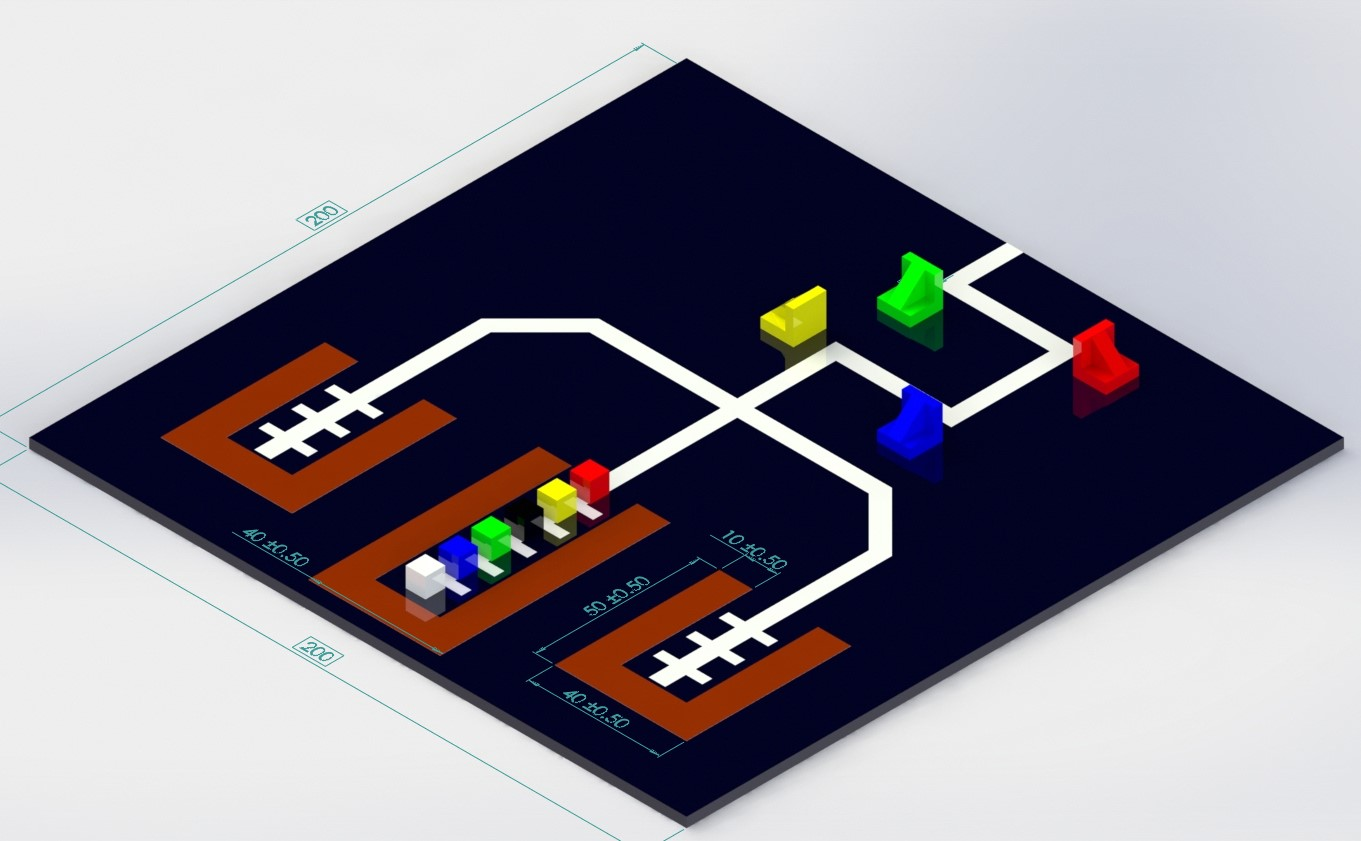
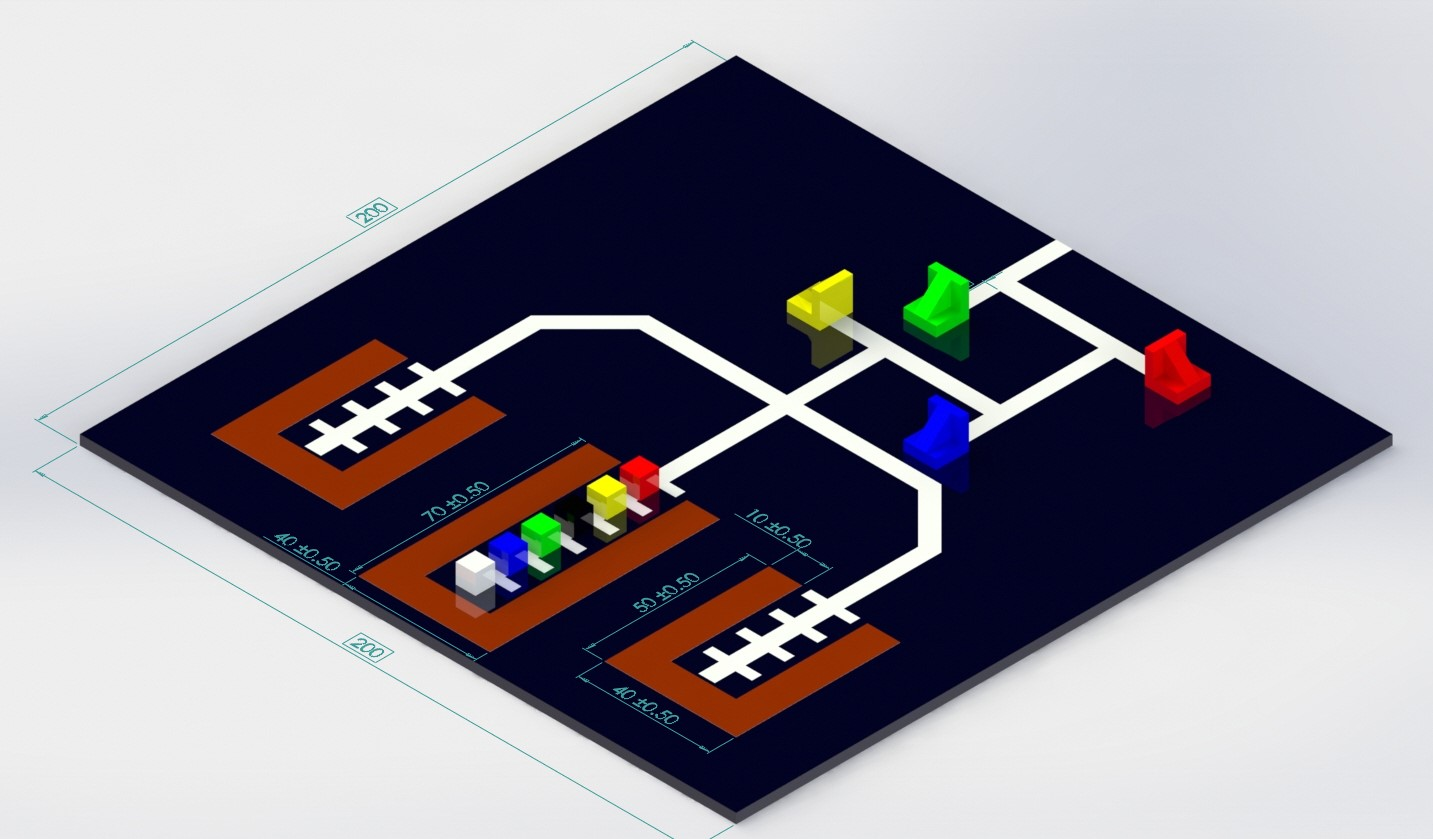
changed arena

diff --git a/_events/stax.md b/_events/stax.md
@@ -61,7 +61,7 @@ To build a robot which can **rearrange** blocks of different colours from a stac
 
 * The outer dimensions of the arena will be **200 cm x 200 cm**.
 
-* The main stack and side stacks will be a rectangles of inner dimensions **80 cm x 20 cm** and **40 cm x 20 cm** with a width of **10 cm** on all sides.
+* The main stack and side stacks will be a rectangles of inner dimensions **60 cm x 20 cm** and **40 cm x 20 cm** with a width of **10 cm** on all sides.
 
 * The line width for facilitating line following mechanism will be **5 cm**.
 
@@ -148,7 +148,7 @@ To build a robot which can **rearrange** blocks of different colours from a stac
 
 ##### Round rules
 
-* A maximum of **4 minutes** will be given to complete this round. The restart can only be taken before **3 minutes** into the round.
+* A maximum of **6 minutes** will be given to complete this round. The restart can only be taken before **4 minutes** into the round.
 
 * Maximum number of Time-outs allowed: **2** (1 min each).
 
@@ -172,13 +172,13 @@ To build a robot which can **rearrange** blocks of different colours from a stac
 
 * **Negatives**
 
-    * Incorrect identification of colour: **-50** (A)
+    * Incorrect identification of colour: **50** (A)
 
-    * Dropping the block each time: **-30** (L)
+    * Dropping the block each time: **30** (L)
 
-    * For each timeout: **-100** (O)
+    * For each timeout: **100** (O)
 
-    * For each restart: **-150** (S)
+    * For each restart: **150** (S)
 
 **Formula:**
 
@@ -208,7 +208,7 @@ To build a robot which can **rearrange** blocks of different colours from a stac
 
 ##### Round rules
 
-* A maximum of **6 minutes** will be given to complete this round. The restart will only be given before **4:30** into the round.
+* A maximum of **10 minutes** will be given to complete this round. The restart will only be given before **7 minutes** into the round.
 
 * Maximum number of Time-outs allowed: **2 (1 min each).**
 
@@ -232,15 +232,15 @@ To build a robot which can **rearrange** blocks of different colours from a stac
 
 * **Negatives**
 
-    * Incorrect identification of colour: **-50** (A)
+    * Incorrect identification of colour: **50** (A)
 
-    * Dropping the block each time: **-30** (L)
+    * Dropping the block each time: **30** (L)
 
-    * For each timeout: **-100** (O)
+    * For each timeout: **100** (O)
 
-    * For each restart: **-150** (S)
+    * For each restart: **150** (S)
 
-    * Leaving a waste block in main stack: -**150**(D)
+    * Leaving a waste block in main stack: **150**(D)
 
 **Formula:**
 
